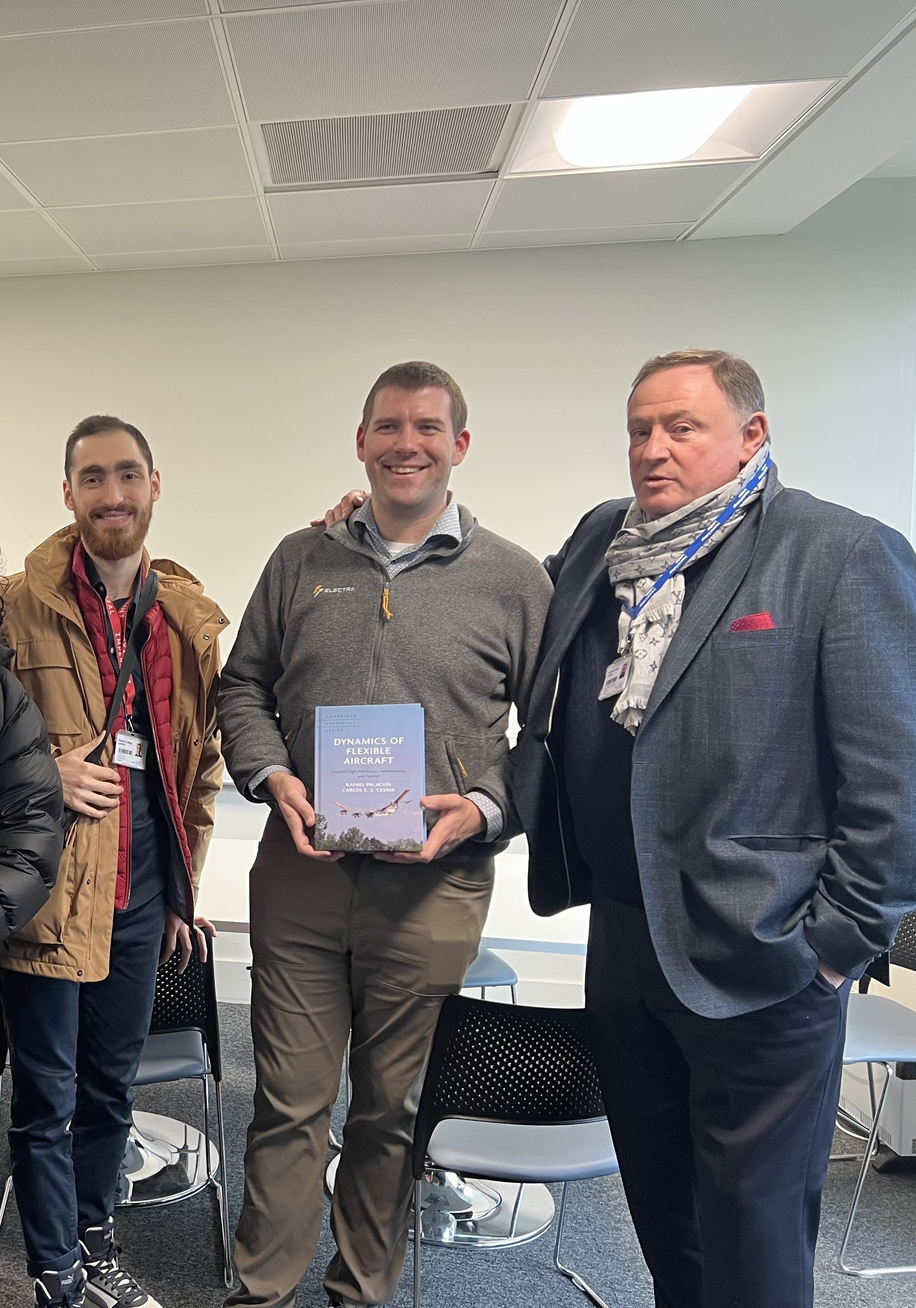
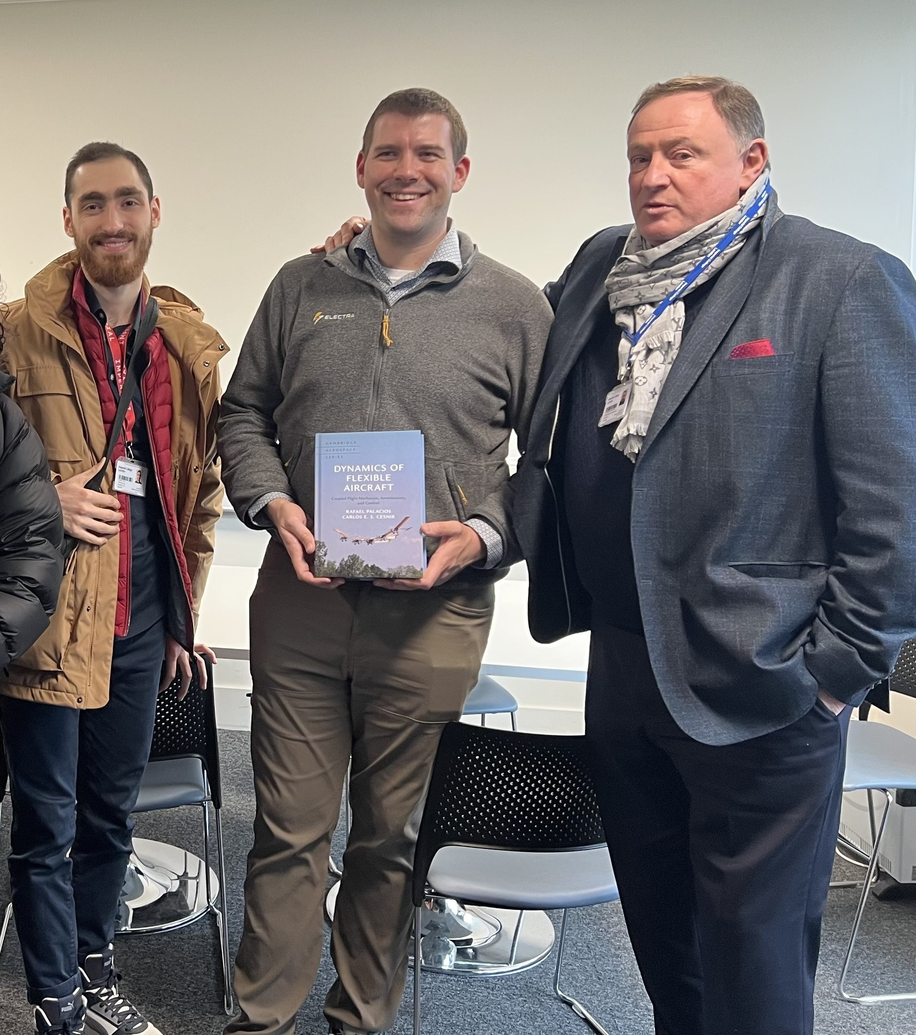
combined connections image

diff --git a/index.htm b/index.htm
@@ -238,13 +238,12 @@ document.addEventListener("DOMContentLoaded", () => {
         <h2>Aeronautics MSc Studies</h2>
         <p>Alh. During my Aerospace Master’s studies at Imperial College, the journey was both challenging and deeply inspiring, shaped by the opportunity to learn from world-class professors and alongside exceptional peers. My experience began with two defining lectures: an aerospace-focused Introduction to Machine Learning, and Aeroelasticity. Early in the Aeroelasticity module, Professor Rafael Palacios demonstrated a wing undergoing aeroelastic behavior using a small wind tunnel brought into the classroom, an experience that strongly motivated me to engage with the subject. Despite being widely regarded as one of the most demanding modules in the programme alongside the Turbulence module, I chose to pursue Aeroelasticity, and it ultimately became one of the most intellectually stretching and rewarding parts of my studies.</p>
         <p>Across two academic terms, I undertook a broad and rigorous set of modules spanning Machine Learning, Vertical Flight Aircraft, Aircraft Structures, Aeroelasticity, Control Systems, Systems Engineering, Sustainable Aviation, Advanced Propulsion and Advanced Aerodynamics. Preparation for the mandatory Advanced Aerodynamics module involved extensive derivations and formula-based analysis, which I was able to study for in the unique learning environment of Imperial’s G-rooms, where entire walls functioned as whiteboards. The picture on the left was taken after several days of studying. Overall, the programme pushed the limits of my technical ability while offering a rare and immersive academic experience.</p>
-        <p>I was also very forunate to have Professor Kravchenko, former Boeing International Vice President, as on of my MSc Thesis Supervisors along with Professor Rafael Palacios. The Picture on the left was taken when he introduced me to the new airplane compnay Electra's SVP of Product Development, James. He also introcude me an my team to Mr. Hemant Mistry, Director of Net Zero Transition at International Air Transport Association (IATA), whome we had the chance to talk about our Sustainable Aviation research findings.</p>
+        <p>I was also very fortunate to have Professor Kravchenko, former Boeing International Vice President, as one of my MSc thesis supervisors, alongside Professor Rafael Palacios. The picture on the left was taken when he introduced me to the aerospace startup Electra’s Senior Vice President of Product Development, James Stewart. He also introduced my team and me to Mr. Hemant Mistry, Director of Net Zero Transition at the International Air Transport Association (IATA), with whom we had the opportunity to discuss our sustainable aviation research findings.</p>
       </div>
 
       <div class="experience-media">
         <img src="assets/Imperial Study.jpg">
-        <img src="assets/Connections 2.jpg">
-        <img src="assets/Connections 1.jpg">
+        <img src="assets/Connections Combined.jpg.jpg">
       </div>
 
     </div>
